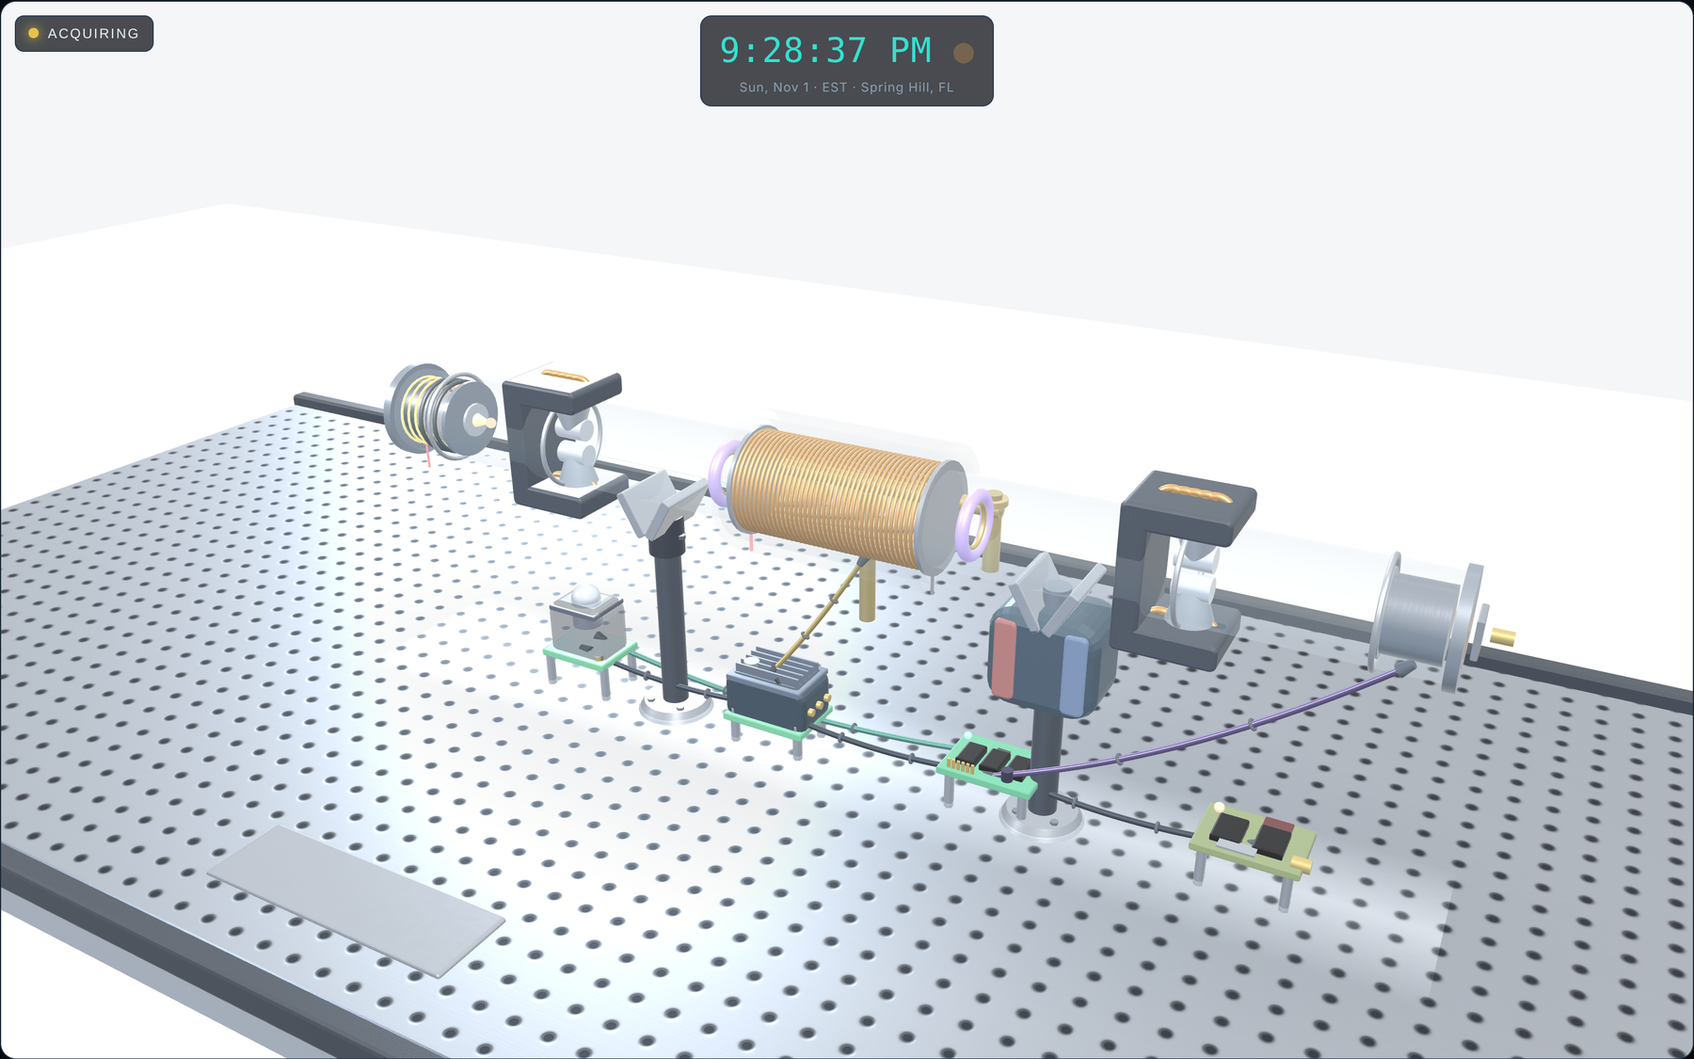
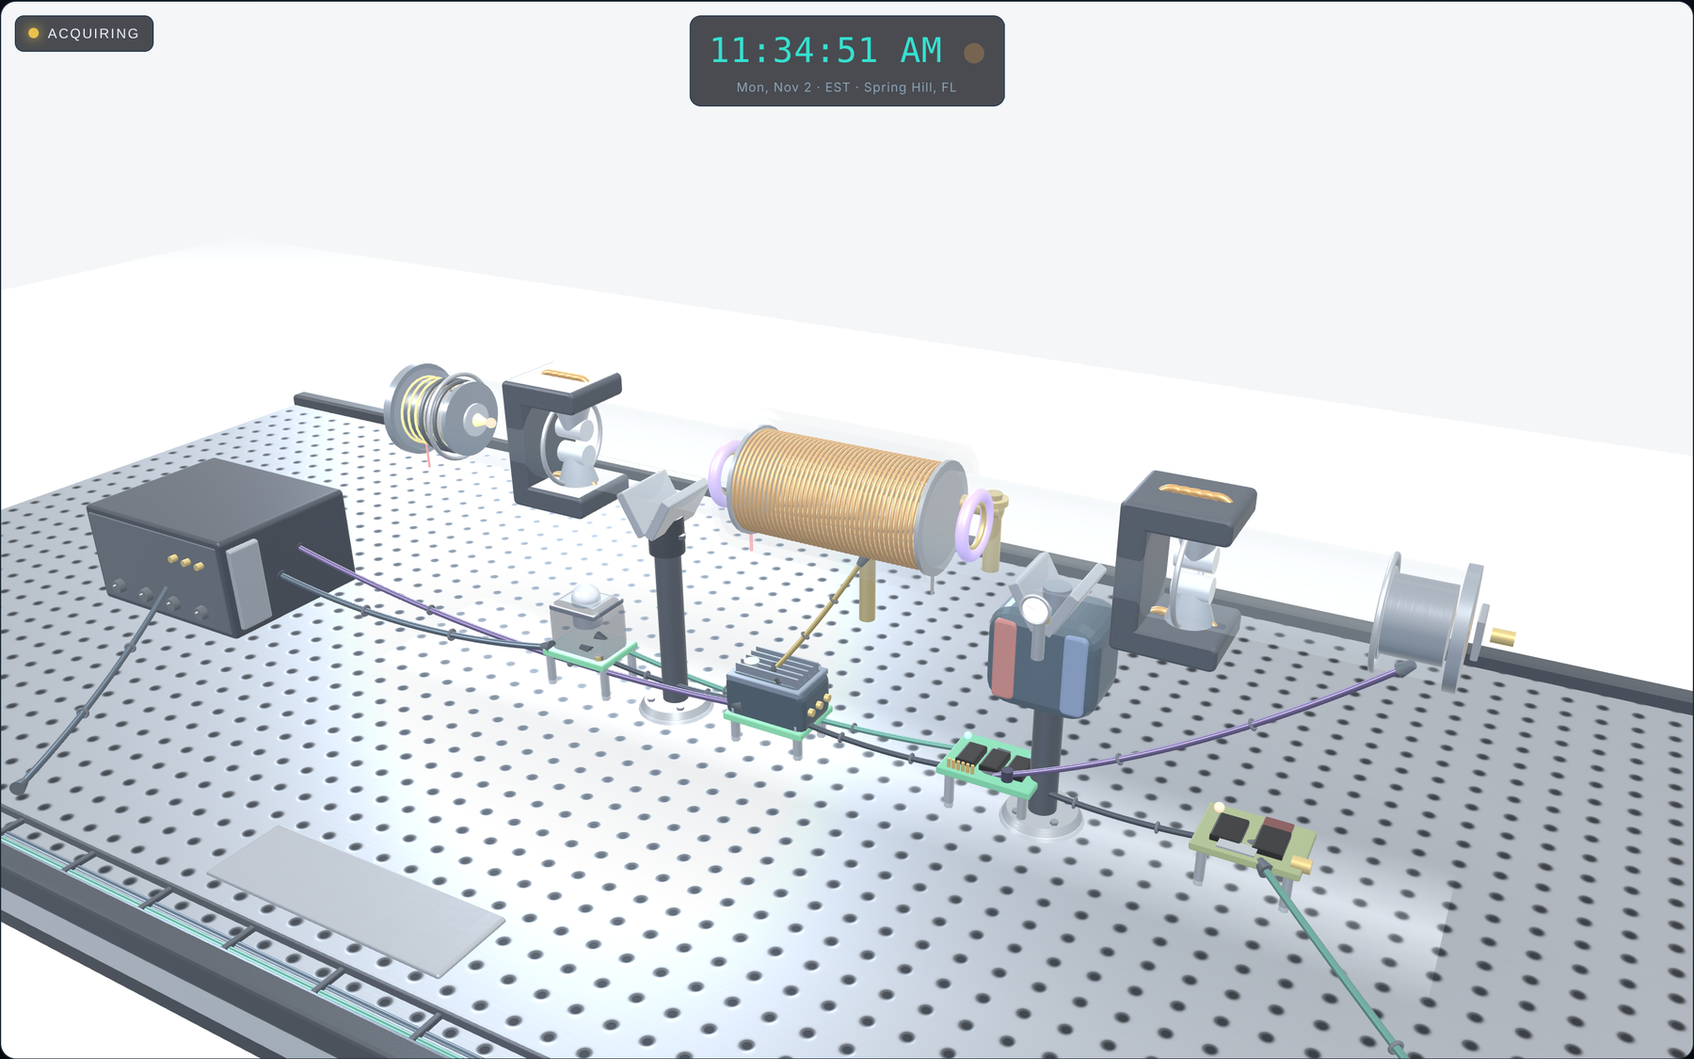
Push architecture further: floating optical table, rack controller, bench services
Build the full metrology-bench context around the apparatus:

- Floating optical table: structural skirt frame + four pneumatic
  isolation legs (top mount, piston tube, bellows, wide base foot) down
  to a lowered room floor — the bench now reads as a real object in space
- 19" rack-mount controller instrument: anodised chassis, rack ears,
  rubber feet, top ventilation slots, and a self-illuminated front panel
  (locked green frequency display, status LEDs, labelled knobs) with 3D
  knobs and BNC connectors; a cable harness feeds the oscillator rail
- Cable tray (U-channel with ladder rungs) along the bench front edge,
  with routed harness cables dropping into it
- Vacuum gauge head with a needle dial + bezel on the ion-pump manifold
- Self-illuminated engraved spec plate so it reads under the key light
- Re-rendered all component stills + OG cover; regenerated offline model
  + hosted standalone (verified offline, zero page errors)

Claude-Session: https://claude.ai/code/session_01YXoVwwxemi4SoJ6UT6wZSp

diff --git a/posts/teardown-engine-to-atomic-clock/code/atomic-clock-model.html b/posts/teardown-engine-to-atomic-clock/code/atomic-clock-model.html
@@ -443,9 +443,12 @@
     var bbBody=new THREE.Mesh(new THREE.BoxGeometry(34,0.55,13), steel({color:0xb3b9c1,rough:0.5,surface:'brushed'})); bbBody.position.set(0,-3.825,0); bbBody.receiveShadow=true; root.add(bbBody);
     // edge rails along the long sides for a finished, machined look
     [-6.4,6.4].forEach(function(cz){ var rail=new THREE.Mesh(rbox(34,0.28,0.3,0.06), anodized({color:0x2a2f37})); rail.position.set(0,-3.5,cz); root.add(rail); });
+    // structural skirt frame under the breadboard + pneumatic isolation legs -> a floating optical table
+    var skirt=new THREE.Mesh(new THREE.BoxGeometry(33.4,0.7,12.4), anodized({color:0x24282f})); skirt.position.set(0,-4.45,0); root.add(skirt);
+    tableLeg(-15,-5.2); tableLeg(15,-5.2); tableLeg(-15,5.2); tableLeg(15,5.2);
     // room floor beneath, kept light so the background stays bright
-    var floor=new THREE.Mesh(new THREE.PlaneGeometry(80,46), new THREE.MeshStandardMaterial({color:0xeef1f5, roughness:0.5, metalness:0.0, envMapIntensity:0.6}));
-    floor.rotation.x=-Math.PI/2; floor.position.set(0,-4.12,0); floor.receiveShadow=true; root.add(floor);
+    var floor=new THREE.Mesh(new THREE.PlaneGeometry(90,54), new THREE.MeshStandardMaterial({color:0xeef1f5, roughness:0.55, metalness:0.0, envMapIntensity:0.55}));
+    floor.rotation.x=-Math.PI/2; floor.position.set(0,-6.7,0); floor.receiveShadow=true; root.add(floor);
     // hex-bolt detail on the vacuum end flanges + engraved spec plate on the bench
     [-6.6,6.6].forEach(function(fx){ for(var k=0;k<6;k++){ var a=k*Math.PI/3+0.4; root.add(hexBolt(fx, Math.cos(a)*0.5, Math.sin(a)*0.5, 0.05, 0x7a828c)); } });
     (function(){ var pc=document.createElement('canvas'); pc.width=512; pc.height=128; var px=pc.getContext('2d');
@@ -455,12 +458,22 @@
       px.fillStyle='#9fb3c6'; px.font='30px "JetBrains Mono", monospace';
       px.fillText('Cs-133  ·  9 192 631 770 Hz  ·  SAVVY SECURITY', 24, 92);
       var pt=new THREE.CanvasTexture(pc);
-      var plate=new THREE.Mesh(new THREE.PlaneGeometry(3.2,0.8), new THREE.MeshStandardMaterial({color:0xffffff, map:pt, metalness:0.1, roughness:0.6, envMapIntensity:0.25}));
+      var plate=new THREE.Mesh(new THREE.PlaneGeometry(3.2,0.8), new THREE.MeshStandardMaterial({color:0x9298a0, map:pt, metalness:0.2, roughness:0.6, envMapIntensity:0.2, emissive:0xffffff, emissiveMap:pt, emissiveIntensity:0.5}));
       plate.rotation.x=-Math.PI/2; plate.position.set(-3.4,-3.52,4.9); root.add(plate);
       var frame=new THREE.Mesh(rbox(3.4,0.06,1.0,0.03), steel({color:0x8a9099})); frame.position.set(-3.4,-3.55,4.9); root.add(frame); })();
     // hex standoff feet lifting each electronics module off the breadboard
     [-4,-1,2,5].forEach(function(mx){ for(var c=0;c<4;c++){ var sx=mx+(c<2?-0.46:0.46), sz=(c%2?0.3:-0.3);
       root.add(mesh(new THREE.CylinderGeometry(0.06,0.06,0.5,6), steel({color:0x9298a0,rough:0.35}), sx,-3.3,sz)); }});
+    // rack-mount controller instrument at the left end, facing the bench; its harness feeds the oscillator rail
+    root.add(rackUnit(-10.8,0.4));
+    root.add(coax(-9.4,-2.9,0.6, -4.5,-3,0.3, 0.5, 0x25303c, 0.045));   // controller -> quartz (reference)
+    root.add(coax(-9.4,-2.6,0.2, -1.4,-3,0.3, 0.6, 0x3a2f5a, 0.04));    // controller -> synth (control)
+    // cable tray along the front edge, carrying the harness
+    root.add(cableTray(-13,6.0, 13,6.0));
+    root.add(coax(5.2,-3,0.4, 10,-3.2,5.6, 0.3, 0x2f6a5a, 0.04));       // divider out -> tray
+    root.add(coax(-10.8,-3.0,1.4, -8,-3.2,5.6, 0.3, 0x25303c, 0.04));   // controller -> tray
+    // vacuum gauge + angle valve on the ion-pump manifold
+    root.add(vacGauge(2.6,1.1));
     // faint occlusion blob to seat the assembly, under the real cast shadow
     var shc=document.createElement('canvas'); shc.width=shc.height=256; var sx=shc.getContext('2d');
     var sg=sx.createRadialGradient(128,128,8,128,128,128); sg.addColorStop(0,'rgba(18,28,38,0.36)'); sg.addColorStop(0.7,'rgba(18,28,38,0.12)'); sg.addColorStop(1,'rgba(18,28,38,0)');
@@ -596,6 +609,77 @@
     var pl=mesh(rbox(0.1,0.58,0.9),padM,x-0.2,-0.63,0); pl.rotation.z= 0.52; grp.add(pl);                            // V pad L
     var pr=mesh(rbox(0.1,0.58,0.9),padM,x+0.2,-0.63,0); pr.rotation.z=-0.52; grp.add(pr);                            // V pad R
     return grp; }
+
+  // pneumatic isolation leg of the optical table (top mount, piston tube, bellows, base foot)
+  function tableLeg(x,z){ var g=new THREE.Group();
+    g.add(mesh(new THREE.CylinderGeometry(0.5,0.5,0.16,24), steel({color:0x8a9099,rough:0.4}), x,-4.78,z));         // top mount plate
+    g.add(mesh(new THREE.CylinderGeometry(0.38,0.38,1.5,24), MAT(0x3a4049,{metal:0.9,rough:0.34,surface:'brushed'}), x,-5.6,z)); // piston tube
+    g.add(mesh(new THREE.CylinderGeometry(0.46,0.46,0.3,24), anodized({color:0x22262d}), x,-6.0,z));                // bellows band
+    g.add(mesh(new THREE.CylinderGeometry(0.72,0.82,0.22,28), steel({color:0x6c7682,rough:0.45}), x,-6.58,z));     // base foot
+    return g; }
+
+  // 19" rack-mount controller: chassis, rack ears, feet, detailed front panel, 3D knobs/connectors
+  function rackUnit(x,z){ var g=new THREE.Group(); var H=1.5, W=2.9, D=2.3, cy=-3.54+H/2;
+    g.add(mesh(rbox(W,H,D,0.05), anodized({color:0x2b303a}), x,cy,z));                                    // chassis
+    g.add(mesh(rbox(W-0.1,H*0.9,0.04), MAT(0x3a4049,{metal:0.85,rough:0.3}), x,cy,z+D/2+0.001));          // brushed panel backing
+    var earM=steel({color:0x8a9099,rough:0.3});
+    g.add(mesh(rbox(0.14,H*0.82,0.5), earM, x-W/2-0.03,cy,z+D/2-0.35));
+    g.add(mesh(rbox(0.14,H*0.82,0.5), earM, x+W/2+0.03,cy,z+D/2-0.35));
+    [[-W/2+0.25,-D/2+0.25],[W/2-0.25,-D/2+0.25],[-W/2+0.25,D/2-0.25],[W/2-0.25,D/2-0.25]].forEach(function(p){
+      g.add(mesh(new THREE.CylinderGeometry(0.1,0.12,0.12,14), MAT(0x15181c,{metal:0.1,rough:0.7}), x+p[0],-3.6,z+p[1])); }); // rubber feet
+    // top ventilation slots
+    for(var v=0;v<7;v++){ g.add(mesh(rbox(W*0.6,0.02,0.05), MAT(0x15181c,{metal:0.2,rough:0.6}), x,-3.54+H+0.001,z-0.5+v*0.16)); }
+    // front-panel graphics
+    var pc=document.createElement('canvas'); pc.width=640; pc.height=320; var px=pc.getContext('2d');
+    px.fillStyle='#20252c'; px.fillRect(0,0,640,320);
+    px.strokeStyle='#454b54'; px.lineWidth=3; px.strokeRect(5,5,630,310);
+    px.fillStyle='#cfd8e2'; px.font='bold 30px Oswald, Arial, sans-serif'; px.textBaseline='middle';
+    px.fillText('Cs FREQUENCY STANDARD · CONTROLLER', 26, 36);
+    px.fillStyle='#0a0f0c'; px.fillRect(26,60,330,70); px.strokeStyle='#0c3a2a'; px.strokeRect(26,60,330,70);
+    px.fillStyle='#35e0a0'; px.font='bold 46px "JetBrains Mono", monospace';
+    px.fillText('9192631770', 40, 97); px.fillStyle='#1b7a5a'; px.font='16px "JetBrains Mono", monospace'; px.fillText('Hz', 300, 104);
+    px.fillStyle='#8aa0b4'; px.font='15px "JetBrains Mono", monospace';
+    px.fillText('LOCKED', 400, 78); px.fillText('OVEN  OK', 400, 102); px.fillText('SERVO ON', 400, 126);
+    px.fillStyle='#2ad06a'; [74,98,122].forEach(function(yy){ px.beginPath(); px.arc(388,yy,6,0,6.2831); px.fill(); });
+    px.fillStyle='#6a7686'; px.font='13px "JetBrains Mono", monospace';
+    ['GAIN','PHASE','C-FIELD','OUTPUT'].forEach(function(t,i){ px.fillText(t, 60+i*140, 300); });
+    var pt=new THREE.CanvasTexture(pc);
+    g.add(mesh(new THREE.PlaneGeometry(W*0.95,H*0.86), new THREE.MeshStandardMaterial({color:0x8d939c,map:pt,metalness:0.2,roughness:0.55,envMapIntensity:0.25,emissive:0xffffff,emissiveMap:pt,emissiveIntensity:0.55}), x,cy,z+D/2+0.012));
+    // 3D knobs + BNC connectors protruding from the panel
+    var kn=MAT(0x15181c,{metal:0.3,rough:0.5}), bn=brass({color:0xc9a24a});
+    for(var k=0;k<4;k++){ var kx=x-0.98+k*0.62; var kb=mesh(new THREE.CylinderGeometry(0.1,0.11,0.12,20), kn, kx,cy-0.44,z+D/2+0.06); kb.rotation.x=Math.PI/2; g.add(kb);
+      var pr=mesh(new THREE.CylinderGeometry(0.012,0.012,0.12,8), steel({color:0xd0d6de}), kx,cy-0.40,z+D/2+0.1); pr.rotation.x=Math.PI/2; g.add(pr); }
+    for(var b=0;b<3;b++){ var bx=x+0.5+b*0.28; var bc=mesh(new THREE.CylinderGeometry(0.05,0.05,0.14,14), bn, bx,cy+0.36,z+D/2+0.05); bc.rotation.x=Math.PI/2; g.add(bc); }
+    return g; }
+
+  // cable tray (U-channel) running along the bench front edge
+  function cableTray(ax,az,bx,bz){ var g=new THREE.Group(); var len=Math.abs(bx-ax), cx=(ax+bx)/2;
+    var trM=anodized({color:0x3a4049});
+    g.add(mesh(rbox(len,0.06,0.5,0.02), trM, cx,-3.62,az));                                  // tray base
+    g.add(mesh(rbox(len,0.18,0.04), trM, cx,-3.54,az-0.24));                                 // front lip
+    g.add(mesh(rbox(len,0.18,0.04), trM, cx,-3.54,az+0.24));                                 // back lip
+    for(var i=0;i<=len;i+=1.3){ g.add(mesh(rbox(0.05,0.14,0.46), MAT(0x2a2f37,{metal:0.6,rough:0.4}), ax+i,-3.56,az)); } // ladder rungs
+    // a couple of cables lying in the tray
+    var ca=new THREE.Vector3(ax+0.5,-3.56,az), cb=new THREE.Vector3(bx-0.5,-3.56,az);
+    g.add(new THREE.Mesh(new THREE.TubeGeometry(new THREE.LineCurve3(ca,cb),2,0.04,12,false), MAT(0x25303c,{metal:0.5,rough:0.4,surface:'brushed'})));
+    g.add(new THREE.Mesh(new THREE.TubeGeometry(new THREE.LineCurve3(ca.clone().add(new THREE.Vector3(0,0.02,0.1)),cb.clone().add(new THREE.Vector3(0,0.02,0.1))),2,0.035,12,false), MAT(0x2f6a5a,{metal:0.5,rough:0.4,surface:'brushed'})));
+    return g; }
+
+  // vacuum gauge head + angle valve on the pump manifold
+  function vacGauge(x,yTop){ var g=new THREE.Group();
+    g.add(mesh(new THREE.CylinderGeometry(0.07,0.07,0.5,16), steel({color:0x8a9099}), x,-0.9,0.5));        // riser tube
+    g.add(mesh(new THREE.CylinderGeometry(0.12,0.12,0.14,20), brass({color:0xc0a24a}), x,-0.62,0.5));      // body
+    // round dial face with needle
+    var dc=document.createElement('canvas'); dc.width=dc.height=128; var dx=dc.getContext('2d');
+    dx.fillStyle='#f3f1e8'; dx.beginPath(); dx.arc(64,64,60,0,6.2831); dx.fill();
+    dx.strokeStyle='#222'; dx.lineWidth=3; dx.beginPath(); dx.arc(64,64,58,0,6.2831); dx.stroke();
+    dx.strokeStyle='#444'; dx.lineWidth=2; for(var t=0;t<11;t++){ var a=Math.PI*0.75+t*Math.PI*1.5/10; dx.beginPath(); dx.moveTo(64+Math.cos(a)*48,64+Math.sin(a)*48); dx.lineTo(64+Math.cos(a)*56,64+Math.sin(a)*56); dx.stroke(); }
+    dx.strokeStyle='#c22'; dx.lineWidth=3; var na=Math.PI*0.75+2.3*Math.PI*1.5/10; dx.beginPath(); dx.moveTo(64,64); dx.lineTo(64+Math.cos(na)*44,64+Math.sin(na)*44); dx.stroke();
+    dx.fillStyle='#333'; dx.font='11px Arial'; dx.textAlign='center'; dx.fillText('mbar',64,92);
+    var dt=new THREE.CanvasTexture(dc);
+    var face=mesh(new THREE.CircleGeometry(0.16,28), new THREE.MeshStandardMaterial({color:0xffffff,map:dt,metalness:0.1,roughness:0.5}), x,-0.5,0.66); g.add(face);
+    g.add(mesh(new THREE.TorusGeometry(0.16,0.02,12,28), steel({color:0x9298a0}), x,-0.5,0.655));           // bezel
+    return g; }
 
   function ovenUnit(ck){ var g=new THREE.Group();
     // outer wall — semi-transparent so the crucible inside is visible

diff --git a/posts/teardown-engine-to-atomic-clock/code/atomic-clock.html b/posts/teardown-engine-to-atomic-clock/code/atomic-clock.html
@@ -437,9 +437,12 @@
     var bbBody=new THREE.Mesh(new THREE.BoxGeometry(34,0.55,13), steel({color:0xb3b9c1,rough:0.5,surface:'brushed'})); bbBody.position.set(0,-3.825,0); bbBody.receiveShadow=true; root.add(bbBody);
     // edge rails along the long sides for a finished, machined look
     [-6.4,6.4].forEach(function(cz){ var rail=new THREE.Mesh(rbox(34,0.28,0.3,0.06), anodized({color:0x2a2f37})); rail.position.set(0,-3.5,cz); root.add(rail); });
+    // structural skirt frame under the breadboard + pneumatic isolation legs -> a floating optical table
+    var skirt=new THREE.Mesh(new THREE.BoxGeometry(33.4,0.7,12.4), anodized({color:0x24282f})); skirt.position.set(0,-4.45,0); root.add(skirt);
+    tableLeg(-15,-5.2); tableLeg(15,-5.2); tableLeg(-15,5.2); tableLeg(15,5.2);
     // room floor beneath, kept light so the background stays bright
-    var floor=new THREE.Mesh(new THREE.PlaneGeometry(80,46), new THREE.MeshStandardMaterial({color:0xeef1f5, roughness:0.5, metalness:0.0, envMapIntensity:0.6}));
-    floor.rotation.x=-Math.PI/2; floor.position.set(0,-4.12,0); floor.receiveShadow=true; root.add(floor);
+    var floor=new THREE.Mesh(new THREE.PlaneGeometry(90,54), new THREE.MeshStandardMaterial({color:0xeef1f5, roughness:0.55, metalness:0.0, envMapIntensity:0.55}));
+    floor.rotation.x=-Math.PI/2; floor.position.set(0,-6.7,0); floor.receiveShadow=true; root.add(floor);
     // hex-bolt detail on the vacuum end flanges + engraved spec plate on the bench
     [-6.6,6.6].forEach(function(fx){ for(var k=0;k<6;k++){ var a=k*Math.PI/3+0.4; root.add(hexBolt(fx, Math.cos(a)*0.5, Math.sin(a)*0.5, 0.05, 0x7a828c)); } });
     (function(){ var pc=document.createElement('canvas'); pc.width=512; pc.height=128; var px=pc.getContext('2d');
@@ -449,12 +452,22 @@
       px.fillStyle='#9fb3c6'; px.font='30px "JetBrains Mono", monospace';
       px.fillText('Cs-133  ·  9 192 631 770 Hz  ·  SAVVY SECURITY', 24, 92);
       var pt=new THREE.CanvasTexture(pc);
-      var plate=new THREE.Mesh(new THREE.PlaneGeometry(3.2,0.8), new THREE.MeshStandardMaterial({color:0xffffff, map:pt, metalness:0.1, roughness:0.6, envMapIntensity:0.25}));
+      var plate=new THREE.Mesh(new THREE.PlaneGeometry(3.2,0.8), new THREE.MeshStandardMaterial({color:0x9298a0, map:pt, metalness:0.2, roughness:0.6, envMapIntensity:0.2, emissive:0xffffff, emissiveMap:pt, emissiveIntensity:0.5}));
       plate.rotation.x=-Math.PI/2; plate.position.set(-3.4,-3.52,4.9); root.add(plate);
       var frame=new THREE.Mesh(rbox(3.4,0.06,1.0,0.03), steel({color:0x8a9099})); frame.position.set(-3.4,-3.55,4.9); root.add(frame); })();
     // hex standoff feet lifting each electronics module off the breadboard
     [-4,-1,2,5].forEach(function(mx){ for(var c=0;c<4;c++){ var sx=mx+(c<2?-0.46:0.46), sz=(c%2?0.3:-0.3);
       root.add(mesh(new THREE.CylinderGeometry(0.06,0.06,0.5,6), steel({color:0x9298a0,rough:0.35}), sx,-3.3,sz)); }});
+    // rack-mount controller instrument at the left end, facing the bench; its harness feeds the oscillator rail
+    root.add(rackUnit(-10.8,0.4));
+    root.add(coax(-9.4,-2.9,0.6, -4.5,-3,0.3, 0.5, 0x25303c, 0.045));   // controller -> quartz (reference)
+    root.add(coax(-9.4,-2.6,0.2, -1.4,-3,0.3, 0.6, 0x3a2f5a, 0.04));    // controller -> synth (control)
+    // cable tray along the front edge, carrying the harness
+    root.add(cableTray(-13,6.0, 13,6.0));
+    root.add(coax(5.2,-3,0.4, 10,-3.2,5.6, 0.3, 0x2f6a5a, 0.04));       // divider out -> tray
+    root.add(coax(-10.8,-3.0,1.4, -8,-3.2,5.6, 0.3, 0x25303c, 0.04));   // controller -> tray
+    // vacuum gauge + angle valve on the ion-pump manifold
+    root.add(vacGauge(2.6,1.1));
     // faint occlusion blob to seat the assembly, under the real cast shadow
     var shc=document.createElement('canvas'); shc.width=shc.height=256; var sx=shc.getContext('2d');
     var sg=sx.createRadialGradient(128,128,8,128,128,128); sg.addColorStop(0,'rgba(18,28,38,0.36)'); sg.addColorStop(0.7,'rgba(18,28,38,0.12)'); sg.addColorStop(1,'rgba(18,28,38,0)');
@@ -590,6 +603,77 @@
     var pl=mesh(rbox(0.1,0.58,0.9),padM,x-0.2,-0.63,0); pl.rotation.z= 0.52; grp.add(pl);                            // V pad L
     var pr=mesh(rbox(0.1,0.58,0.9),padM,x+0.2,-0.63,0); pr.rotation.z=-0.52; grp.add(pr);                            // V pad R
     return grp; }
+
+  // pneumatic isolation leg of the optical table (top mount, piston tube, bellows, base foot)
+  function tableLeg(x,z){ var g=new THREE.Group();
+    g.add(mesh(new THREE.CylinderGeometry(0.5,0.5,0.16,24), steel({color:0x8a9099,rough:0.4}), x,-4.78,z));         // top mount plate
+    g.add(mesh(new THREE.CylinderGeometry(0.38,0.38,1.5,24), MAT(0x3a4049,{metal:0.9,rough:0.34,surface:'brushed'}), x,-5.6,z)); // piston tube
+    g.add(mesh(new THREE.CylinderGeometry(0.46,0.46,0.3,24), anodized({color:0x22262d}), x,-6.0,z));                // bellows band
+    g.add(mesh(new THREE.CylinderGeometry(0.72,0.82,0.22,28), steel({color:0x6c7682,rough:0.45}), x,-6.58,z));     // base foot
+    return g; }
+
+  // 19" rack-mount controller: chassis, rack ears, feet, detailed front panel, 3D knobs/connectors
+  function rackUnit(x,z){ var g=new THREE.Group(); var H=1.5, W=2.9, D=2.3, cy=-3.54+H/2;
+    g.add(mesh(rbox(W,H,D,0.05), anodized({color:0x2b303a}), x,cy,z));                                    // chassis
+    g.add(mesh(rbox(W-0.1,H*0.9,0.04), MAT(0x3a4049,{metal:0.85,rough:0.3}), x,cy,z+D/2+0.001));          // brushed panel backing
+    var earM=steel({color:0x8a9099,rough:0.3});
+    g.add(mesh(rbox(0.14,H*0.82,0.5), earM, x-W/2-0.03,cy,z+D/2-0.35));
+    g.add(mesh(rbox(0.14,H*0.82,0.5), earM, x+W/2+0.03,cy,z+D/2-0.35));
+    [[-W/2+0.25,-D/2+0.25],[W/2-0.25,-D/2+0.25],[-W/2+0.25,D/2-0.25],[W/2-0.25,D/2-0.25]].forEach(function(p){
+      g.add(mesh(new THREE.CylinderGeometry(0.1,0.12,0.12,14), MAT(0x15181c,{metal:0.1,rough:0.7}), x+p[0],-3.6,z+p[1])); }); // rubber feet
+    // top ventilation slots
+    for(var v=0;v<7;v++){ g.add(mesh(rbox(W*0.6,0.02,0.05), MAT(0x15181c,{metal:0.2,rough:0.6}), x,-3.54+H+0.001,z-0.5+v*0.16)); }
+    // front-panel graphics
+    var pc=document.createElement('canvas'); pc.width=640; pc.height=320; var px=pc.getContext('2d');
+    px.fillStyle='#20252c'; px.fillRect(0,0,640,320);
+    px.strokeStyle='#454b54'; px.lineWidth=3; px.strokeRect(5,5,630,310);
+    px.fillStyle='#cfd8e2'; px.font='bold 30px Oswald, Arial, sans-serif'; px.textBaseline='middle';
+    px.fillText('Cs FREQUENCY STANDARD · CONTROLLER', 26, 36);
+    px.fillStyle='#0a0f0c'; px.fillRect(26,60,330,70); px.strokeStyle='#0c3a2a'; px.strokeRect(26,60,330,70);
+    px.fillStyle='#35e0a0'; px.font='bold 46px "JetBrains Mono", monospace';
+    px.fillText('9192631770', 40, 97); px.fillStyle='#1b7a5a'; px.font='16px "JetBrains Mono", monospace'; px.fillText('Hz', 300, 104);
+    px.fillStyle='#8aa0b4'; px.font='15px "JetBrains Mono", monospace';
+    px.fillText('LOCKED', 400, 78); px.fillText('OVEN  OK', 400, 102); px.fillText('SERVO ON', 400, 126);
+    px.fillStyle='#2ad06a'; [74,98,122].forEach(function(yy){ px.beginPath(); px.arc(388,yy,6,0,6.2831); px.fill(); });
+    px.fillStyle='#6a7686'; px.font='13px "JetBrains Mono", monospace';
+    ['GAIN','PHASE','C-FIELD','OUTPUT'].forEach(function(t,i){ px.fillText(t, 60+i*140, 300); });
+    var pt=new THREE.CanvasTexture(pc);
+    g.add(mesh(new THREE.PlaneGeometry(W*0.95,H*0.86), new THREE.MeshStandardMaterial({color:0x8d939c,map:pt,metalness:0.2,roughness:0.55,envMapIntensity:0.25,emissive:0xffffff,emissiveMap:pt,emissiveIntensity:0.55}), x,cy,z+D/2+0.012));
+    // 3D knobs + BNC connectors protruding from the panel
+    var kn=MAT(0x15181c,{metal:0.3,rough:0.5}), bn=brass({color:0xc9a24a});
+    for(var k=0;k<4;k++){ var kx=x-0.98+k*0.62; var kb=mesh(new THREE.CylinderGeometry(0.1,0.11,0.12,20), kn, kx,cy-0.44,z+D/2+0.06); kb.rotation.x=Math.PI/2; g.add(kb);
+      var pr=mesh(new THREE.CylinderGeometry(0.012,0.012,0.12,8), steel({color:0xd0d6de}), kx,cy-0.40,z+D/2+0.1); pr.rotation.x=Math.PI/2; g.add(pr); }
+    for(var b=0;b<3;b++){ var bx=x+0.5+b*0.28; var bc=mesh(new THREE.CylinderGeometry(0.05,0.05,0.14,14), bn, bx,cy+0.36,z+D/2+0.05); bc.rotation.x=Math.PI/2; g.add(bc); }
+    return g; }
+
+  // cable tray (U-channel) running along the bench front edge
+  function cableTray(ax,az,bx,bz){ var g=new THREE.Group(); var len=Math.abs(bx-ax), cx=(ax+bx)/2;
+    var trM=anodized({color:0x3a4049});
+    g.add(mesh(rbox(len,0.06,0.5,0.02), trM, cx,-3.62,az));                                  // tray base
+    g.add(mesh(rbox(len,0.18,0.04), trM, cx,-3.54,az-0.24));                                 // front lip
+    g.add(mesh(rbox(len,0.18,0.04), trM, cx,-3.54,az+0.24));                                 // back lip
+    for(var i=0;i<=len;i+=1.3){ g.add(mesh(rbox(0.05,0.14,0.46), MAT(0x2a2f37,{metal:0.6,rough:0.4}), ax+i,-3.56,az)); } // ladder rungs
+    // a couple of cables lying in the tray
+    var ca=new THREE.Vector3(ax+0.5,-3.56,az), cb=new THREE.Vector3(bx-0.5,-3.56,az);
+    g.add(new THREE.Mesh(new THREE.TubeGeometry(new THREE.LineCurve3(ca,cb),2,0.04,12,false), MAT(0x25303c,{metal:0.5,rough:0.4,surface:'brushed'})));
+    g.add(new THREE.Mesh(new THREE.TubeGeometry(new THREE.LineCurve3(ca.clone().add(new THREE.Vector3(0,0.02,0.1)),cb.clone().add(new THREE.Vector3(0,0.02,0.1))),2,0.035,12,false), MAT(0x2f6a5a,{metal:0.5,rough:0.4,surface:'brushed'})));
+    return g; }
+
+  // vacuum gauge head + angle valve on the pump manifold
+  function vacGauge(x,yTop){ var g=new THREE.Group();
+    g.add(mesh(new THREE.CylinderGeometry(0.07,0.07,0.5,16), steel({color:0x8a9099}), x,-0.9,0.5));        // riser tube
+    g.add(mesh(new THREE.CylinderGeometry(0.12,0.12,0.14,20), brass({color:0xc0a24a}), x,-0.62,0.5));      // body
+    // round dial face with needle
+    var dc=document.createElement('canvas'); dc.width=dc.height=128; var dx=dc.getContext('2d');
+    dx.fillStyle='#f3f1e8'; dx.beginPath(); dx.arc(64,64,60,0,6.2831); dx.fill();
+    dx.strokeStyle='#222'; dx.lineWidth=3; dx.beginPath(); dx.arc(64,64,58,0,6.2831); dx.stroke();
+    dx.strokeStyle='#444'; dx.lineWidth=2; for(var t=0;t<11;t++){ var a=Math.PI*0.75+t*Math.PI*1.5/10; dx.beginPath(); dx.moveTo(64+Math.cos(a)*48,64+Math.sin(a)*48); dx.lineTo(64+Math.cos(a)*56,64+Math.sin(a)*56); dx.stroke(); }
+    dx.strokeStyle='#c22'; dx.lineWidth=3; var na=Math.PI*0.75+2.3*Math.PI*1.5/10; dx.beginPath(); dx.moveTo(64,64); dx.lineTo(64+Math.cos(na)*44,64+Math.sin(na)*44); dx.stroke();
+    dx.fillStyle='#333'; dx.font='11px Arial'; dx.textAlign='center'; dx.fillText('mbar',64,92);
+    var dt=new THREE.CanvasTexture(dc);
+    var face=mesh(new THREE.CircleGeometry(0.16,28), new THREE.MeshStandardMaterial({color:0xffffff,map:dt,metalness:0.1,roughness:0.5}), x,-0.5,0.66); g.add(face);
+    g.add(mesh(new THREE.TorusGeometry(0.16,0.02,12,28), steel({color:0x9298a0}), x,-0.5,0.655));           // bezel
+    return g; }
 
   function ovenUnit(ck){ var g=new THREE.Group();
     // outer wall — semi-transparent so the crucible inside is visible
